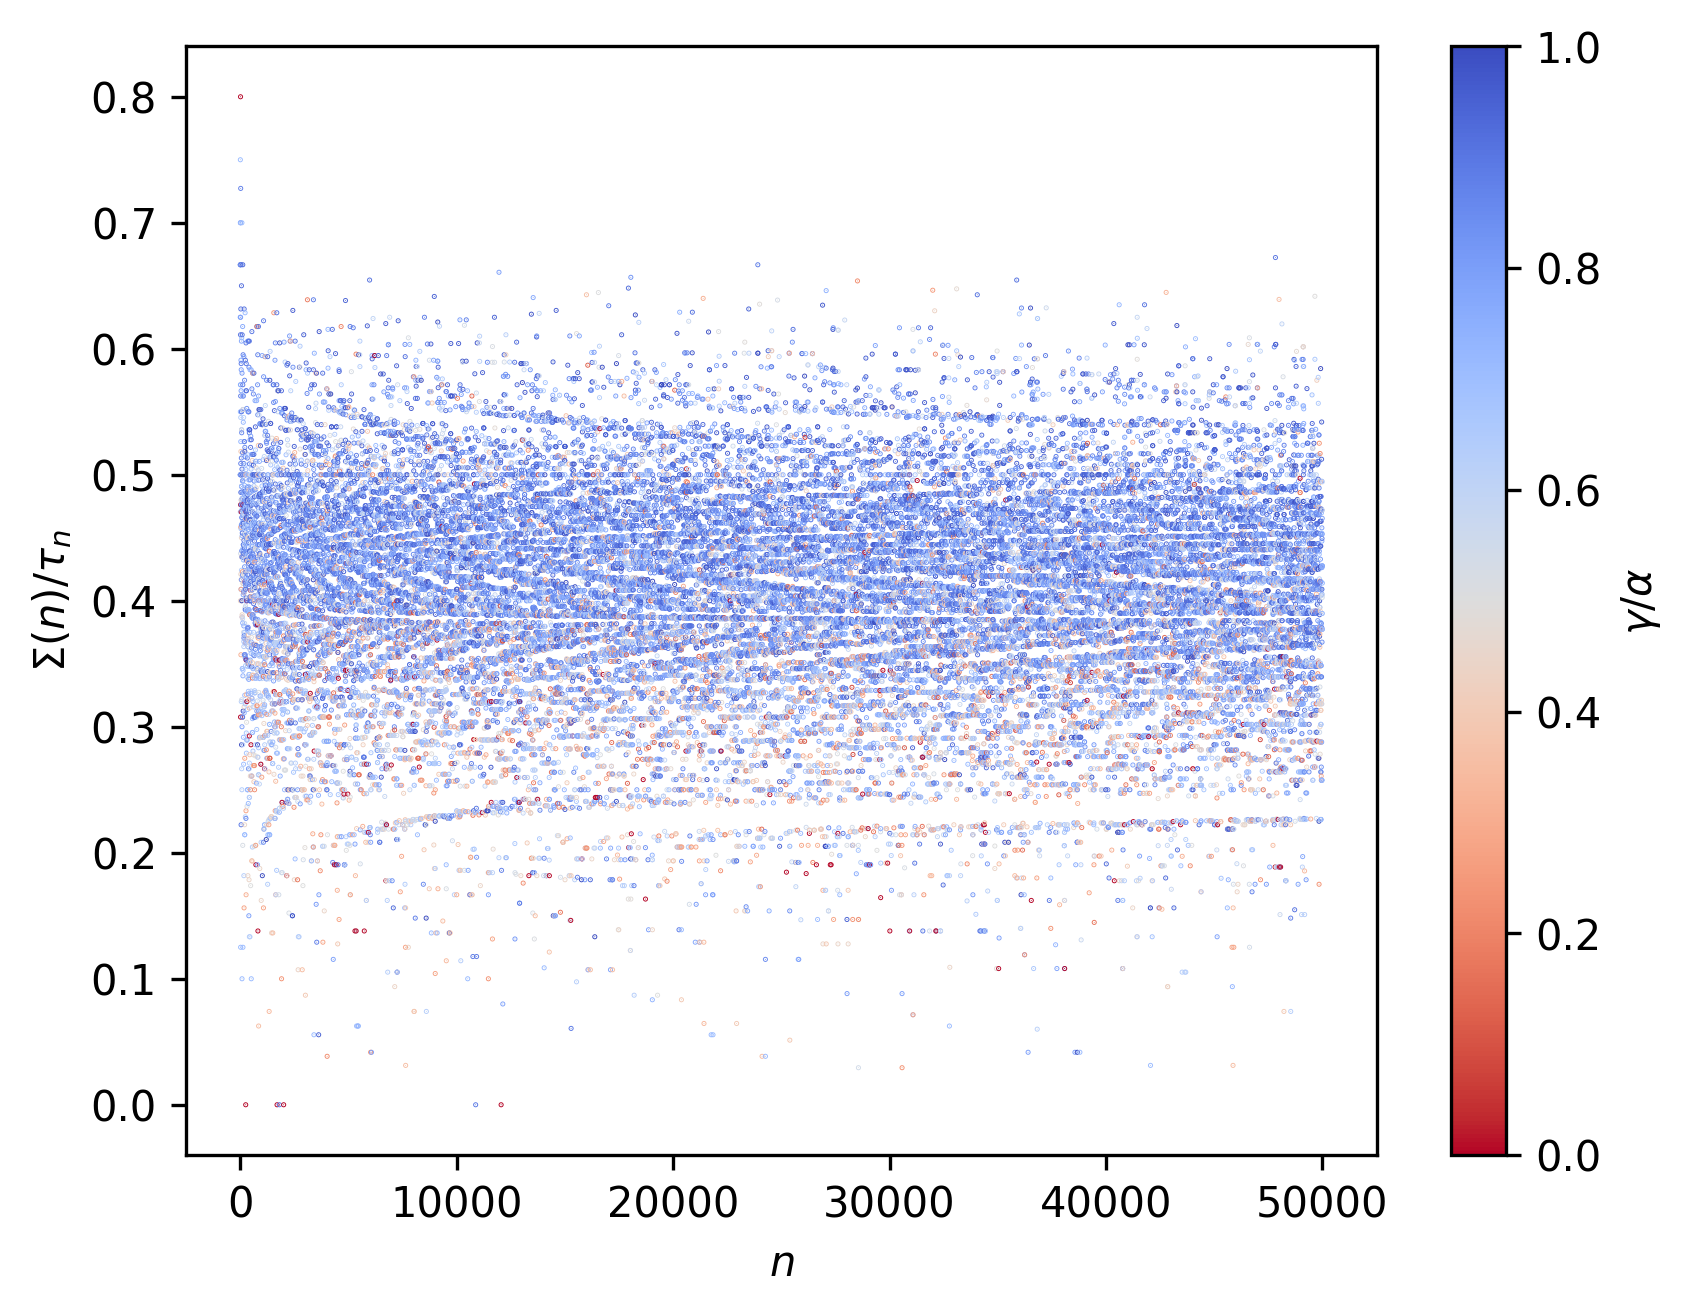
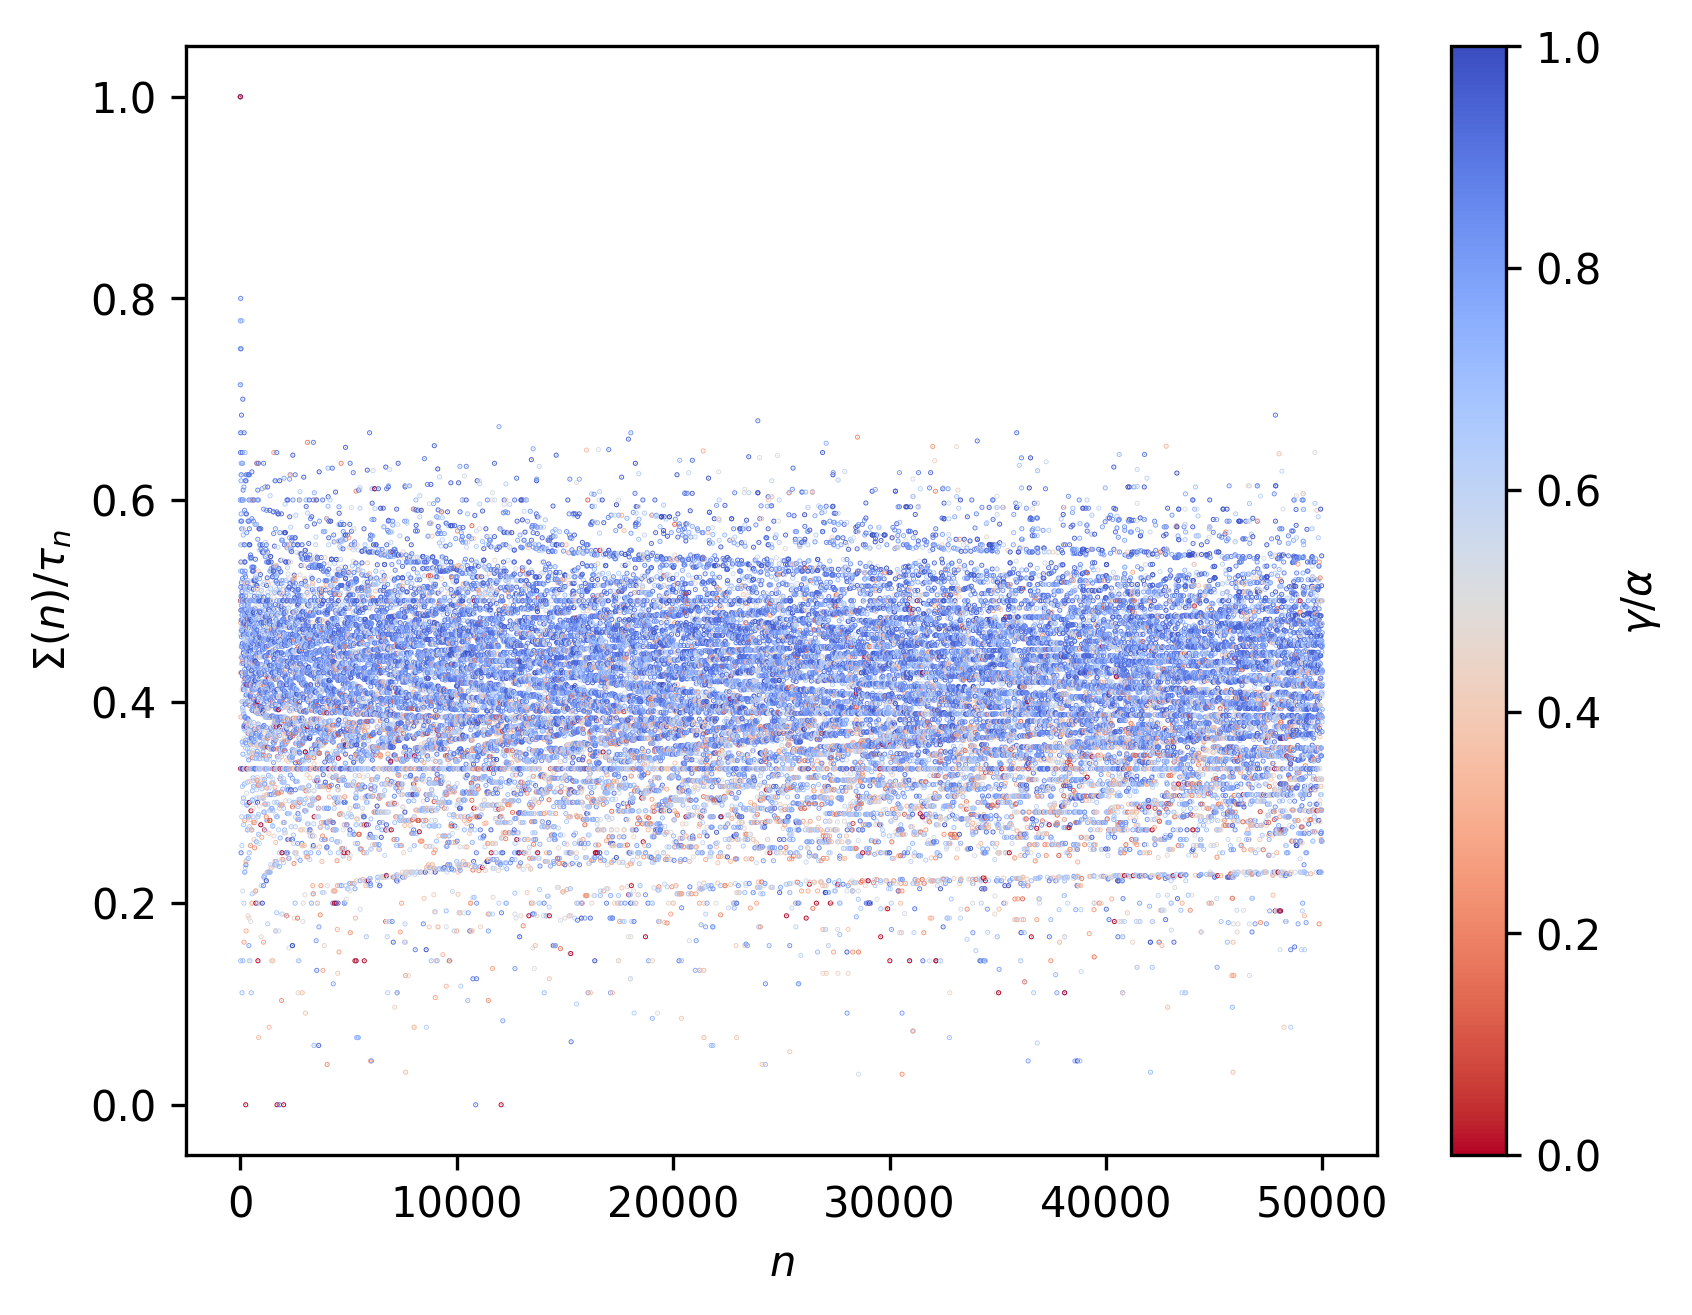
corrections, a few tweaks and additions on two collatz's ant posts

diff --git a/_posts/2025-7-6-collatz_ant6.md b/_posts/2025-7-6-collatz_ant6.md
@@ -4,11 +4,13 @@ title: "Self-Cleaning Ants"
 date: 2025-07-06
 ---
 
+> Correction (July 09, 2025): Updates on how $\tau$	was being computed through the count of frames (e.g. as in the following [script](https://github.com/gbragafibra/collatz-ant/blob/main/collatz_ant_score.py)). Now corrected to `τ = len(frames) - 1`, not counting initial empty frame. Along with a few minor tweaks and additions. 
+
 Relevant preceding posts [here](https://gbragafibra.github.io/2025/01/08/collatz_ant2.html), [here](https://gbragafibra.github.io/2025/05/18/collatz_ant3.html) and [here](https://gbragafibra.github.io/2025/07/06/collatz_ant5.html).
 
 Consider again a score function $\Sigma(n)$ which for a given $n$, outputs the number of 1's (or marked states) left by the ant on the landscape at the end of the run. A self-cleaning ant (in a similar manner to the use of the term [self-cleaning Turing machines](https://nickdrozd.github.io/2021/07/11/self-cleaning-turing-machine.html)) is one for which $\Sigma(n) = 0$. Unlike Turing machines, for which the symbols left on the corresponding tape affect the dynamics, dictating state-transition, here the dynamics of the ant are purely dictated by the collatz function for the corresponding $n$. The landscape is a by-product of such.
 
-Anyways. $1704$ is an example of a self-cleaning ant, with a stopping time of $τ = 17$. Represented next is the corresponding landscape:
+Anyways. $1704$ is an example of a self-cleaning ant, with a stopping time of $τ = 16$. Represented next is the corresponding landscape:
 
 ![](/gifs/collatz_ant_sc1704.gif)
 
@@ -18,33 +20,33 @@ One would perhaps wonder if these self-cleaning ants are rare or not, and what t
 
 |$n$|$τ_{n}$|
 |---|---|
-|256*|9|
-|1704|17|
-|1813|17|
-|2009|25|
-|10880|17|
-|12056|25|
-|65536*|17|
-|72808|25|
-|72817|25|
-|77136|25|
-|85717|33|
-|91744|33|
-|101581|41|
-|436224|25|
-|436904|25|
-|464128|25|
-|464213|25|
-|465568|25|
-|504712|33|
-|514304|33|
-|514389|33|
-|548400|33|
-|548557|33|
-|586561|41|
-|609488|41|
-|609745|41|
-|785605|57|
+|256*|8|
+|1704|16|
+|1813|16|
+|2009|24|
+|10880|16|
+|12056|24|
+|65536*|16|
+|72808|24|
+|72817|24|
+|77136|24|
+|85717|32|
+|91744|32|
+|101581|40|
+|436224|24|
+|436904|24|
+|464128|24|
+|464213|24|
+|465568|24|
+|504712|32|
+|514304|32|
+|514389|32|
+|548400|32|
+|548557|32|
+|586561|40|
+|609488|40|
+|609745|40|
+|785605|56|
 
 A mere 27 self-cleaning ants from a set of one million ants? And also only two of these are powers of 2. For a (trivial) self-cleaning ant, which would inherently be a power of 2, we would need two full rotations of the ant. The first one to mark the states, and the second to delete them. Consider the first example of a trivial self-cleaning ant, $n = 256$:
 
@@ -52,7 +54,13 @@ A mere 27 self-cleaning ants from a set of one million ants? And also only two o
 
 In fact, the trivial self-cleaning ants would be easy to predict and would be given by $n = 2^{8k},\, k ∈ \mathbb{N}$. With $k = 1$ we have $n = 256$, with $k = 2$ we have the other self-cleaning ant we see $n = 65536$, with $k = 3$ we would have $n = 16777216$, and so on.
 
-For the non-trivial ones, presumably there isn't such an easy pattern.
+For the non-trivial ones, presumably there isn't such an easy pattern. We can of course group these self-cleaning ants (trivial ones included) by their corresponding stopping times $τ$ according to a parameter $j ∈ \mathbb{N}$, such that $τ = 8j$.
+
+It's important to note that this doesn't mean that the corresponding landscapes are going to be the same. Take into account some of the examples for which $τ = 40$ with $j = 5$:
+
+| $n = 586561$ | $n = 609488$ | $n = 609745$ |
+|-----------|-----------|-----------|
+| ![](/gifs/collatz_ant_ex1.gif) | ![](/gifs/collatz_ant_ex2.gif) | ![](/gifs/collatz_ant_ex3.gif) |
 
 Additionally, one might think that these self-cleaning ants are going to behave pretty much like the example shown above of $n = 1704$, but these can start showing some interesting behaviour. Consider $n = 785605$:
 

diff --git a/_posts/2025-7-6-collatz_ant5.md b/_posts/2025-7-6-collatz_ant5.md
@@ -4,6 +4,8 @@ title: "Collatz's Ant and Σ(n)"
 date: 2025-07-06
 ---
 
+> Correction (July 09, 2025): Updates on how $\tau$	was being computed through the count of frames (e.g. as in the following [script](https://github.com/gbragafibra/collatz-ant/blob/main/collatz_ant_score.py)). Now corrected to `τ = len(frames) - 1`, not counting initial empty frame. 
+
 Relevant preceding posts [here](https://gbragafibra.github.io/2025/01/08/collatz_ant2.html) and [here](https://gbragafibra.github.io/2025/05/18/collatz_ant3.html).
 
 Consider the corresponding ant's landscape development for $n = 500$:
@@ -14,7 +16,7 @@ with the last frame being:
 
 ![](/gifs/collatz_ant_last500.png)
 
-Let's also consider a score function $\Sigma(n)$ which returns the number of 1's (or marked states) left by the ant on the corresponding landscape (regarding the last frame). With the prior example, we would have $\Sigma(500) = 54$. We might also want to normalize this by the corresponding stopping time $\tau_{n}$ characteristic of the collatz function dynamics for a given $n$. As such, given $\tau_{500} = 111$, we would have $\frac{\Sigma(500)}{\tau_{500}} ≈ 0.49$.
+Let's also consider a score function $\Sigma(n)$ which returns the number of 1's (or marked states) left by the ant on the corresponding landscape (regarding the last frame). With the prior example, we would have $\Sigma(500) = 54$. We might also want to normalize this by the corresponding stopping time $\tau_{n}$ characteristic of the collatz function dynamics for a given $n$. As such, given $\tau_{500} = 110$, we would have $\frac{\Sigma(500)}{\tau_{500}} ≈ 0.49$.
 
 Additionally, let's also consider some metrics relative to the ant's (euclidean) distance to the origin. Say $α$ is the maximum distance reached relative to the origin over the whole development of the landscape, and $γ$ is the distance from the origin at the last frame (so where the ant ends up). For $n = 500$, we would have the ratio $\frac{\gamma}{\alpha} ≈ 0.87$.
 
